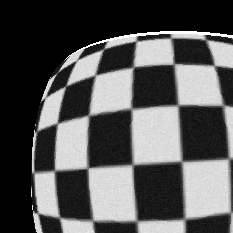
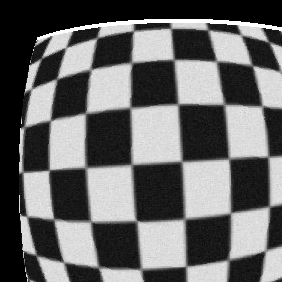
Further changes.

diff --git a/RadialDistortion.py b/RadialDistortion.py
@@ -11,7 +11,7 @@ img = cv2.cvtColor(img, cv2.COLOR_BGR2GRAY)
 height,width=img.shape
 width_center=width//2
 height_center=height//2
-k1_value=-5.5e-6
+k1_value=-3.3e-6
 k2_value=1e-12
 k3_value=1e-18
 max_possible_r_value=(((width_center)**2)+((height_center)**2))**0.5
